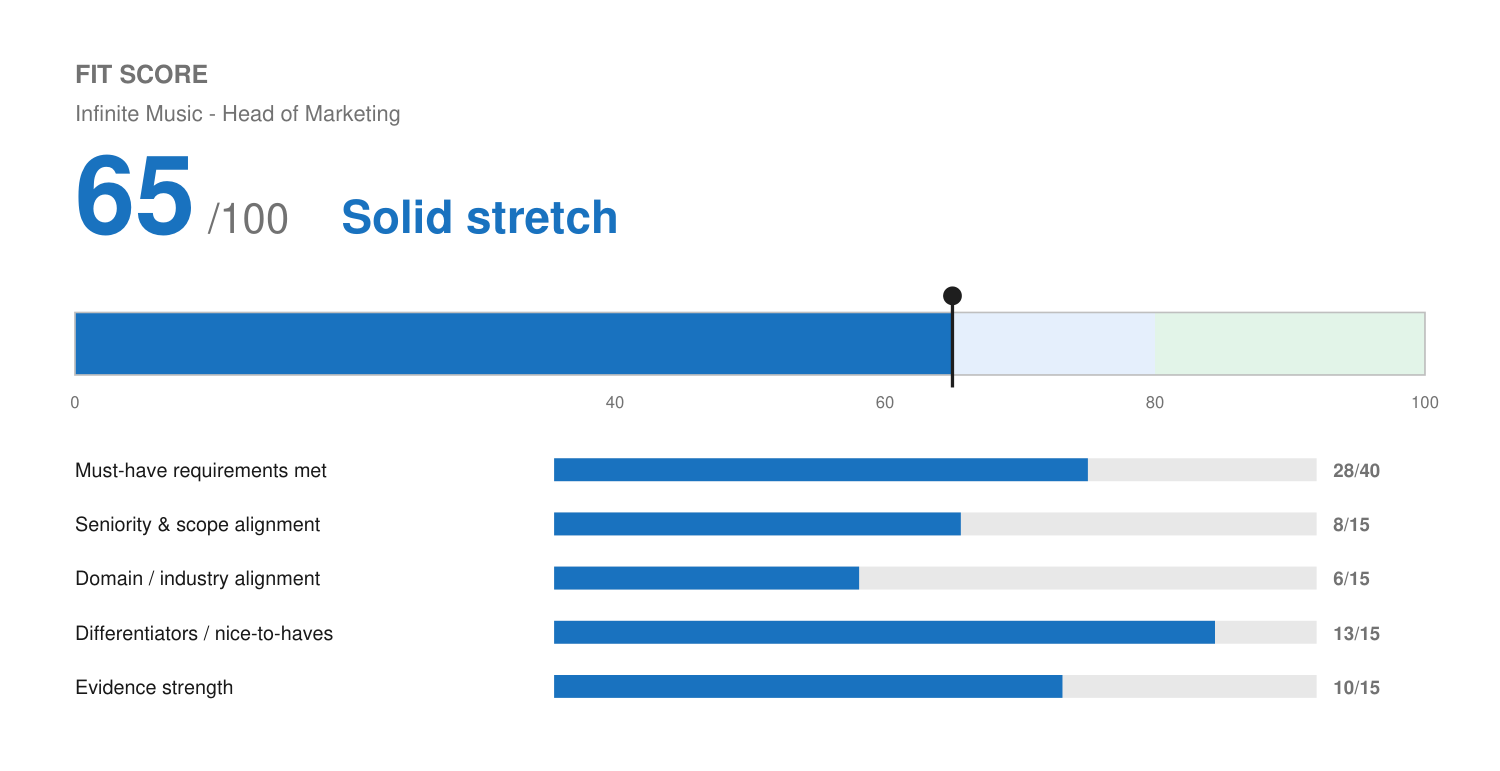
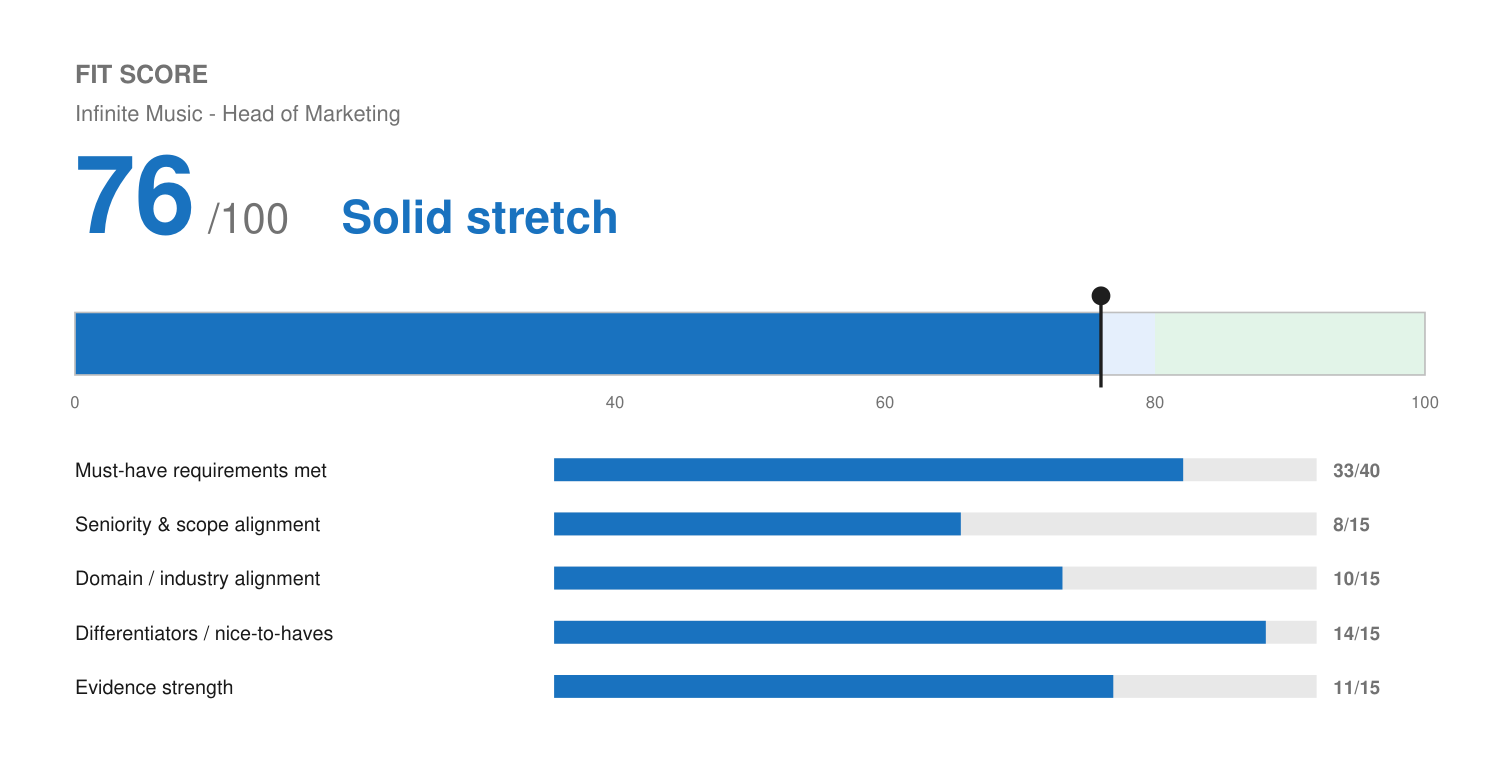
Add music-industry background and paid media detail; retailor Infinite Music resume
Adds true, dated facts to the master profile (Head for the Hills touring
crew and Mishawaka Amphitheatre venue crew 2005-2009, Spotify for Artists
familiarity, Google/Meta/programmatic paid media experience) and reflects
them in the Infinite Music Head of Marketing resume, fit score, and match
report.

diff --git a/applications/infinite-music-head-of-marketing/match-report.md b/applications/infinite-music-head-of-marketing/match-report.md
@@ -7,69 +7,76 @@
 ## Fit Score
 
 ```
-🔵 Fit Score: 65 / 100 — Solid stretch
-[█████████████░░░░░░░]  65%
+🔵 Fit Score: 76 / 100 — Solid stretch
+[███████████████░░░░░]  76%
 ```
 
 | Dimension | Score | Max |
 | :--- | ---: | ---: |
-| Must-have requirements met | 28 | 40 |
+| Must-have requirements met | 33 | 40 |
 | Seniority & scope alignment | 8 | 15 |
-| Domain / industry alignment | 6 | 15 |
-| Differentiators / nice-to-haves | 13 | 15 |
-| Evidence strength | 10 | 15 |
+| Domain / industry alignment | 10 | 15 |
+| Differentiators / nice-to-haves | 14 | 15 |
+| Evidence strength | 11 | 15 |
 
 Score meter image: `fit.png`
+
+*Updated from an initial 65/100 after adding two true, previously-undocumented data
+points: hands-on paid media across Google, Meta, and programmatic (agency-sold, at
+Fetch & Funnel and Level Agency), and early, real music-industry experience — touring
+crew for Fort Collins band Head for the Hills and venue crew at Mishawaka Amphitheatre
+(2005–2009), plus working familiarity with Spotify for Artists.*
 
 ## Keyword coverage (must-haves matched)
 
 Matched (genuine, evidence-backed): B2C and B2B marketing dynamics · lead-generation
-funnels / organic growth into paid amplification · marketing tech stack (CRM, email
-automation, analytics, ad platforms) · KPI-setting and performance reporting · written
-communication (campaign copy, executive reporting) · lean/fast-moving, strategist +
-executor · tech-forward / AI-powered workflows · data-driven decision-making · appetite
-for learning new industries.
+funnels / organic growth into paid amplification · **hands-on paid media across search
+(Google Ads), social (Meta Ads), and display (programmatic, sold at two agencies)** ·
+marketing tech stack (CRM, email automation, analytics, ad platforms) · KPI-setting and
+performance reporting · written communication (campaign copy, executive reporting) ·
+lean/fast-moving, strategist + executor · tech-forward / AI-powered workflows ·
+data-driven decision-making · appetite for learning new industries.
 
-Partial: paid media across search/social/display with budget and ROI accountability
-(Josh has coordinated paid media at Level Agency and optimized a client's Google Ads
-account at Solenzo, but doesn't have deep, sustained hands-on ownership of a paid media
-budget across all three channels) · "5 years in growth marketing/demand gen/integrated
-marketing" (Josh has 15+ years in marketing/sales broadly, with the growth-marketing-
-specific work concentrated in the last ~2.5 years at Solenzo plus Level Agency).
+Partial: "5 years in growth marketing/demand gen/integrated marketing" (Josh has 15+
+years in marketing/sales broadly, with growth-marketing-specific work concentrated in
+the last ~2.5 years at Solenzo plus Level Agency) · budget-management specifics for paid
+media (platforms and campaign types are confirmed; no dollar figures to cite yet).
 
-Not matched: music/entertainment industry experience or music-specific tools (DistroKid,
-TuneCore, Spotify for Artists) — explicitly a "nice to have," not a must-have.
+Now matched (was a gap): music industry familiarity — not professional marketing
+experience, but real, dated exposure (2005–2009 touring/venue crew) plus working
+knowledge of Spotify for Artists, directly answering the "Nice to Have" line on music
+platforms.
 
 ## Top strengths
 - **Organic-to-paid funnel philosophy is a real match, not just phrasing.** Solenzo's
   actual playbook — build traffic/community, layer automation, then paid amplification —
-  is the same sequencing the JD asks for, and it's backed by concrete systems (20+
-  GoHighLevel workflows, a 180+-contact audit/outreach engine).
-- **AI-forward marketing systems are a genuine differentiator.** Few Head of Marketing
-  candidates will show agentic automation architecture at this depth — directly answers
-  "tech-forward mindset... AI-powered workflows" and "quick to test and adopt what moves
-  the needle."
-- **B2C/B2B fluency with real evidence.** Managed both B2C portfolios (Wix e-commerce,
-  +30% traffic/+25% conversion) and B2B service clients (Solenzo, Accelo, Birdeye) —
-  supports the JD's specific point about independent-artist vs. independent-label
-  messaging differing, even without direct music-industry proof.
-- **Comfortable as sole marketing owner building from scratch** — Solenzo is effectively
-  a fractional in-house-agency operation already; that's the exact posture this role asks
-  for on Day 1.
+  is the same sequencing the JD asks for, now backed by named paid-platform experience
+  (Google, Meta, programmatic) on top of the automation systems (20+ GoHighLevel
+  workflows, a 180+-contact audit/outreach engine).
+- **Genuine, if early, roots in the music industry.** Years as touring crew for a Fort
+  Collins bluegrass band and venue crew at Mishawaka Amphitheatre predate his marketing
+  career but give him a lived sense of how independent artists tour, build an audience,
+  and experience the business — a real answer to "rooted in the music industry," not a
+  fabricated one.
+- **AI-forward marketing systems remain a strong differentiator** — directly answers
+  "tech-forward mindset... AI-powered workflows."
+- **B2C/B2B fluency with real evidence** across Wix (B2C e-commerce), and Solenzo/Accelo/
+  Birdeye (B2B service clients).
 
 ## Top gaps (the honest reasons this is a stretch, not a lock)
-- **No music/entertainment industry background.** Zero exposure to DistroKid, TuneCore,
-  Spotify for Artists, label economics, or A&R workflows. The JD frames this as
-  nice-to-have, but "rooted in the music industry" as company identity means Josh would
-  be learning the vertical fast, in public, in a leadership seat.
 - **No prior "Head of Marketing" or director-level marketing title.** Founder (sole
   owner) and team-lead (Wix) experience are the closest analogs, but this role directs
   cross-functional work across Tech, Distribution, Sales, and Social Media departments —
-  a wider organizational scope than anything on his record.
-- **Paid media depth is the thinnest must-have.** The JD wants hands-on search + social +
-  display budget/ROI ownership; Josh's paid media evidence is real but narrower (Level
-  Agency coordination, one client's Google Ads cleanup) than a "managed X budget across
-  three channels" story.
+  a wider organizational scope than anything on his record. This is the single biggest
+  factor holding the score back from "strong fit."
+- **The music-industry experience is early-career and non-marketing** (2005–2009,
+  logistics/crew work, not campaigns or label operations). It's real and worth
+  mentioning, but a hiring team may weigh it as color rather than domain expertise —
+  frame it in an interview as grounding and genuine affinity, not a substitute for
+  music-marketing track record.
+- **No dollar figures for paid media budgets managed.** The platforms and campaign types
+  are now confirmed and on the resume; a real spend number (even an estimate) would
+  further strengthen the ROI-accountability language the JD asks for.
 - **Sponsorships/conference activations and formal sales-asset production (pitch decks,
   case studies) aren't demonstrated** — adjacent skills (client-facing strategy,
   direct-response copy, landing pages) are present, but not this exact deliverable set.
@@ -80,16 +87,25 @@ no bilingual requirement stated. No clearance, license, or relocation requiremen
 band ($90K–$120K) is within a normal range for his experience level.
 
 ## Metrics needed
-- A real "grew pipeline/leads by X%" or "managed $X paid media budget" number from
-  Solenzo or Level Agency would directly close the paid-media and funnel-ROI gaps above —
-  worth asking Josh if either client relationship can supply one before submitting.
+- A real paid-media budget figure (even a rough range) from Solenzo, Level Agency, or
+  Fetch & Funnel would close the last piece of the paid-media must-have.
 
 ## Referral prompt
 Infinite Music is a smaller, growing company — worth a quick check of Josh's network
-(especially anyone in music/entertainment marketing, agency, or Colorado startup circles)
-before applying cold; a referral would meaningfully offset the industry-background gap.
+(especially anyone in music/entertainment marketing, agency, or Colorado
+touring/live-music circles — his Head for the Hills / Mishawaka years may surface real
+connections) before applying cold.
 
 ## Output files
-- `resume.pdf` / `resume.docx` — 2 pages, balanced (fill 0.85), modern style
+- `resume.pdf` / `resume.docx` — 2 pages, balanced (fill 0.93), modern style
 - `fit.png` — score meter
 - (no cover letter requested)
+
+## Profile updates made this run
+Added to `profile/master-profile.md` (true, dated, reusable across future applications):
+- Work history: Mishawaka Amphitheatre — Venue Crew (2007–2009); Head for the Hills
+  (touring band) — Roadie / Touring Crew (2005–2009), Fort Collins, CO.
+- Bullet bank entries for both, including Spotify for Artists familiarity.
+- Broadened the Solenzo paid-media bullet to name Google Ads + Meta Ads explicitly.
+- Added programmatic ad-sales bullets to Fetch & Funnel and Level Agency.
+- Added a "Music Industry Grounding" row to the Core Competencies Bank.

diff --git a/profile/master-profile.md b/profile/master-profile.md
@@ -43,6 +43,8 @@
 | Fivestars | Account Executive | Denver, CO | 2017 – 2018 |
 | Senior Directory | Business Development Representative | Denver, CO | 2012 – 2016 |
 | Standing Akimbo | Co-Owner / Operations Lead | Denver, CO | Jun 2010 – Sep 2012 |
+| Mishawaka Amphitheatre | Venue Crew | Bellvue, CO (Poudre Canyon) | 2007 – 2009 |
+| Head for the Hills (touring band) | Roadie / Touring Crew | Fort Collins, CO | 2005 – 2009 |
 
 ---
 
@@ -66,7 +68,7 @@
 - Architected and deployed a **complete GoHighLevel marketing-automation system — 20+ workflows** spanning lead capture/tagging/routing, lead qualification, appointment booking with confirmation and reminders, no-show recovery, post-sale onboarding nurture, long-term nurture/reactivation, and automated review-generation sequences.
 - Built segmented cold-email outreach engines in GHL (website-visibility, missed-calls, and low-reviews campaigns) plus an automated **prospect "audit" workflow that enrolled 180+ contacts**, scoring a business's digital footprint to trigger personalized outreach.
 - Conduct technical SEO audits, keyword gap analyses, and competitor research, implementing fixes directly inside client CMS platforms.
-- Optimized a client's Google Ads account — cut spam/low-quality leads and improved click-through quality — and diagnosed on-site CRO as the remaining conversion bottleneck, demonstrating full-funnel troubleshooting.
+- Managed paid media across Google Ads and Meta Ads for client accounts — campaign setup, budget management, and ongoing optimization — cutting spam/low-quality leads and improving click-through quality on the Google account, and diagnosed on-site CRO as the remaining conversion bottleneck, demonstrating full-funnel troubleshooting.
 - Write and publish thought leadership content, newsletters, and educational guides on systems architecture, CRM optimization, and operational growth for B2B audiences.
 - Draft clean, specific, ethically aligned direct-response copy, outreach sequences, and landing pages that drive engagement and pipeline.
 
@@ -86,6 +88,7 @@
 
 ### Level Agency — Account Executive / Client Strategist (Sep 2024 – Feb 2025)
 - Managed integrated digital marketing strategies across inbound, paid media, and content, acting as strategic lead and coordinating execution across internal departments.
+- Sold and helped manage programmatic display/video ad placements alongside paid social and search as part of integrated client media plans.
 - Built rigorous campaign performance reporting frameworks tracking ROI, CAC, LTV, and conversion KPIs, delivering optimization recommendations and QBRs.
 - Produced high-converting campaign assets — landing pages, complex email sequences, conversion-focused copy — improving lead generation and pipeline.
 - Managed multi-stakeholder accounts across marketing and technology channels, translating performance data into strategic recommendations.
@@ -102,6 +105,7 @@
 
 ### Fetch & Funnel — Account Executive / Sales Operations (Sep 2022 – Feb 2023)
 - Managed client accounts focused on campaign execution, performance reporting, and cross-team communication for a performance marketing agency.
+- Sold programmatic display/video advertising campaigns to clients alongside search and social buys as part of full-funnel media engagements.
 - Built and refined internal processes that improved reporting accuracy, reduced handoff errors, and strengthened cross-team alignment.
 - Analyzed campaign performance data and translated results into optimization recommendations across paid media and creative.
 - Closed **6 new-client deals** during tenure, averaging **~$22K each (several exceeding $25K) — roughly $130K+ in total bookings**.
@@ -135,6 +139,11 @@
 - Developed early operational infrastructure — intake processes and reporting systems — scaling the business to profitability.
 - Built customer service, vendor, and supplier workflows from the ground up.
 
+### Mishawaka Amphitheatre — Venue Crew (2007 – 2009) / Head for the Hills (touring band) — Roadie / Touring Crew (2005 – 2009)
+- Worked touring crew for Head for the Hills, a Fort Collins bluegrass band, and venue crew at Mishawaka Amphitheatre — hands-on, ground-level grounding in live music production, touring logistics, and how independent artists build and tour an audience.
+- Direct, lived understanding of the independent-artist side of the music business (touring economics, live show production, fan-building on the road) that predates and informs later marketing/CRM work.
+- Familiar with how independent artists use Spotify for Artists and related platforms to manage their audience and release strategy.
+
 ---
 
 ## Summary Variants (pick by target role type)
@@ -166,6 +175,7 @@
 | Operations & Systems | Process Mapping, SOP Development, Workflow Decomposition, Project Management, Cross-functional Coordination |
 | Content & Writing | Thought Leadership, Direct Response Copy, Technical Translation, Brand Voice, Editorial Management |
 | Tools & Platforms | GoHighLevel, HubSpot, Salesforce, Notion, Slack, Asana, Monday.com, Jira, Zendesk, Google Apps, Procore |
+| Music Industry Grounding | Live Touring & Venue Production, Independent Artist Ecosystem, Spotify for Artists Familiarity |
 
 ---
 
